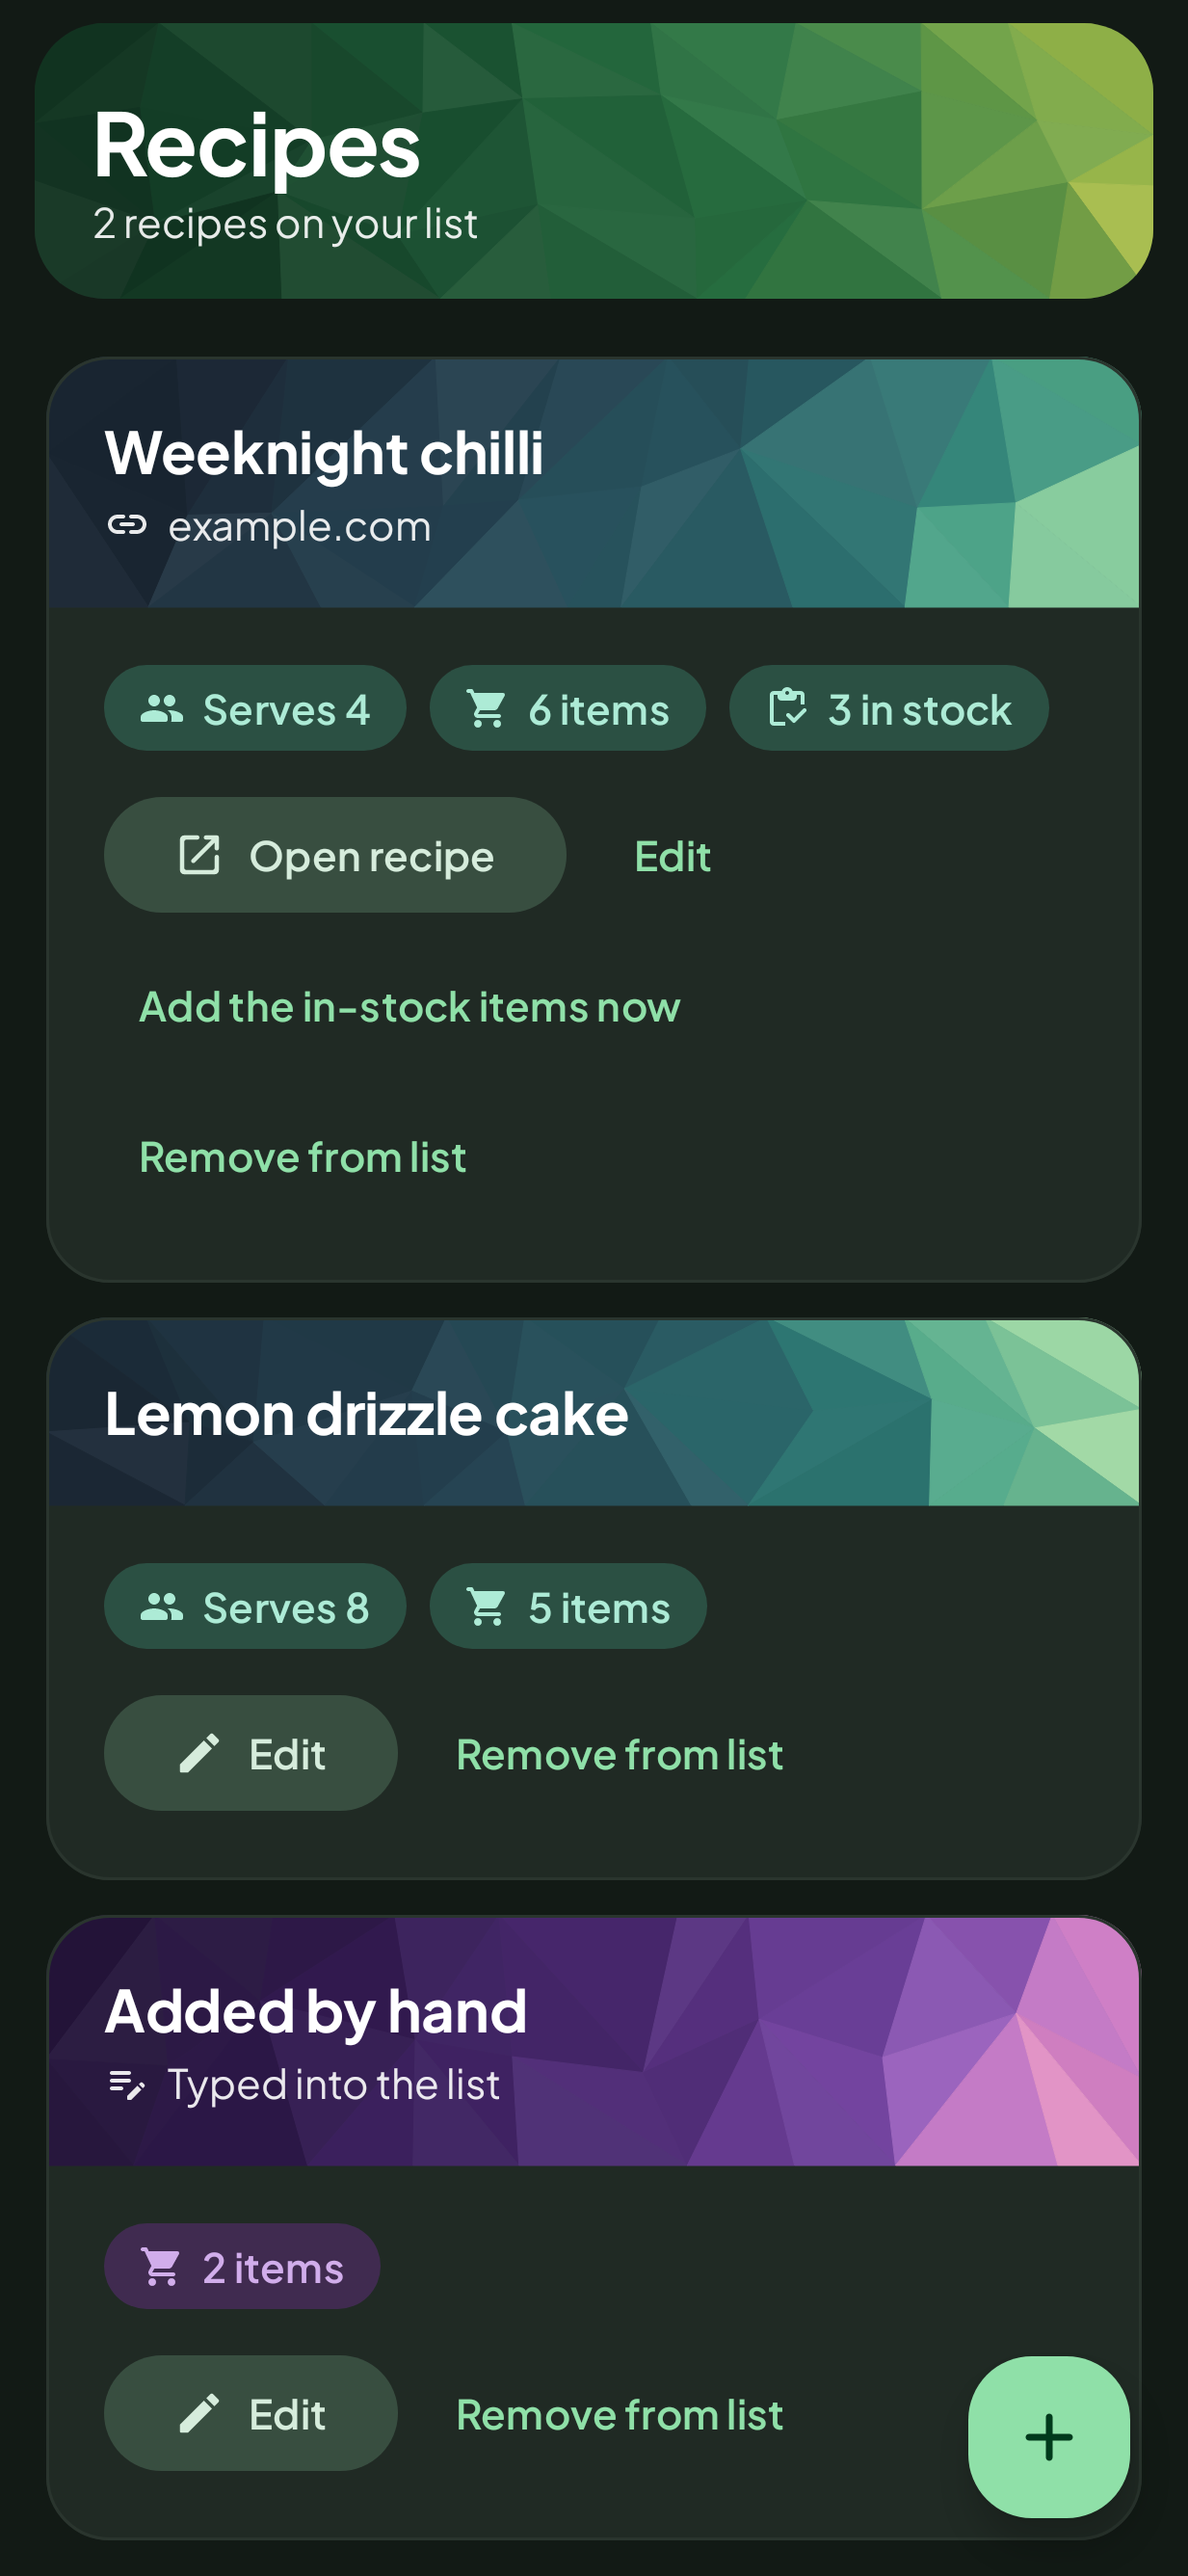
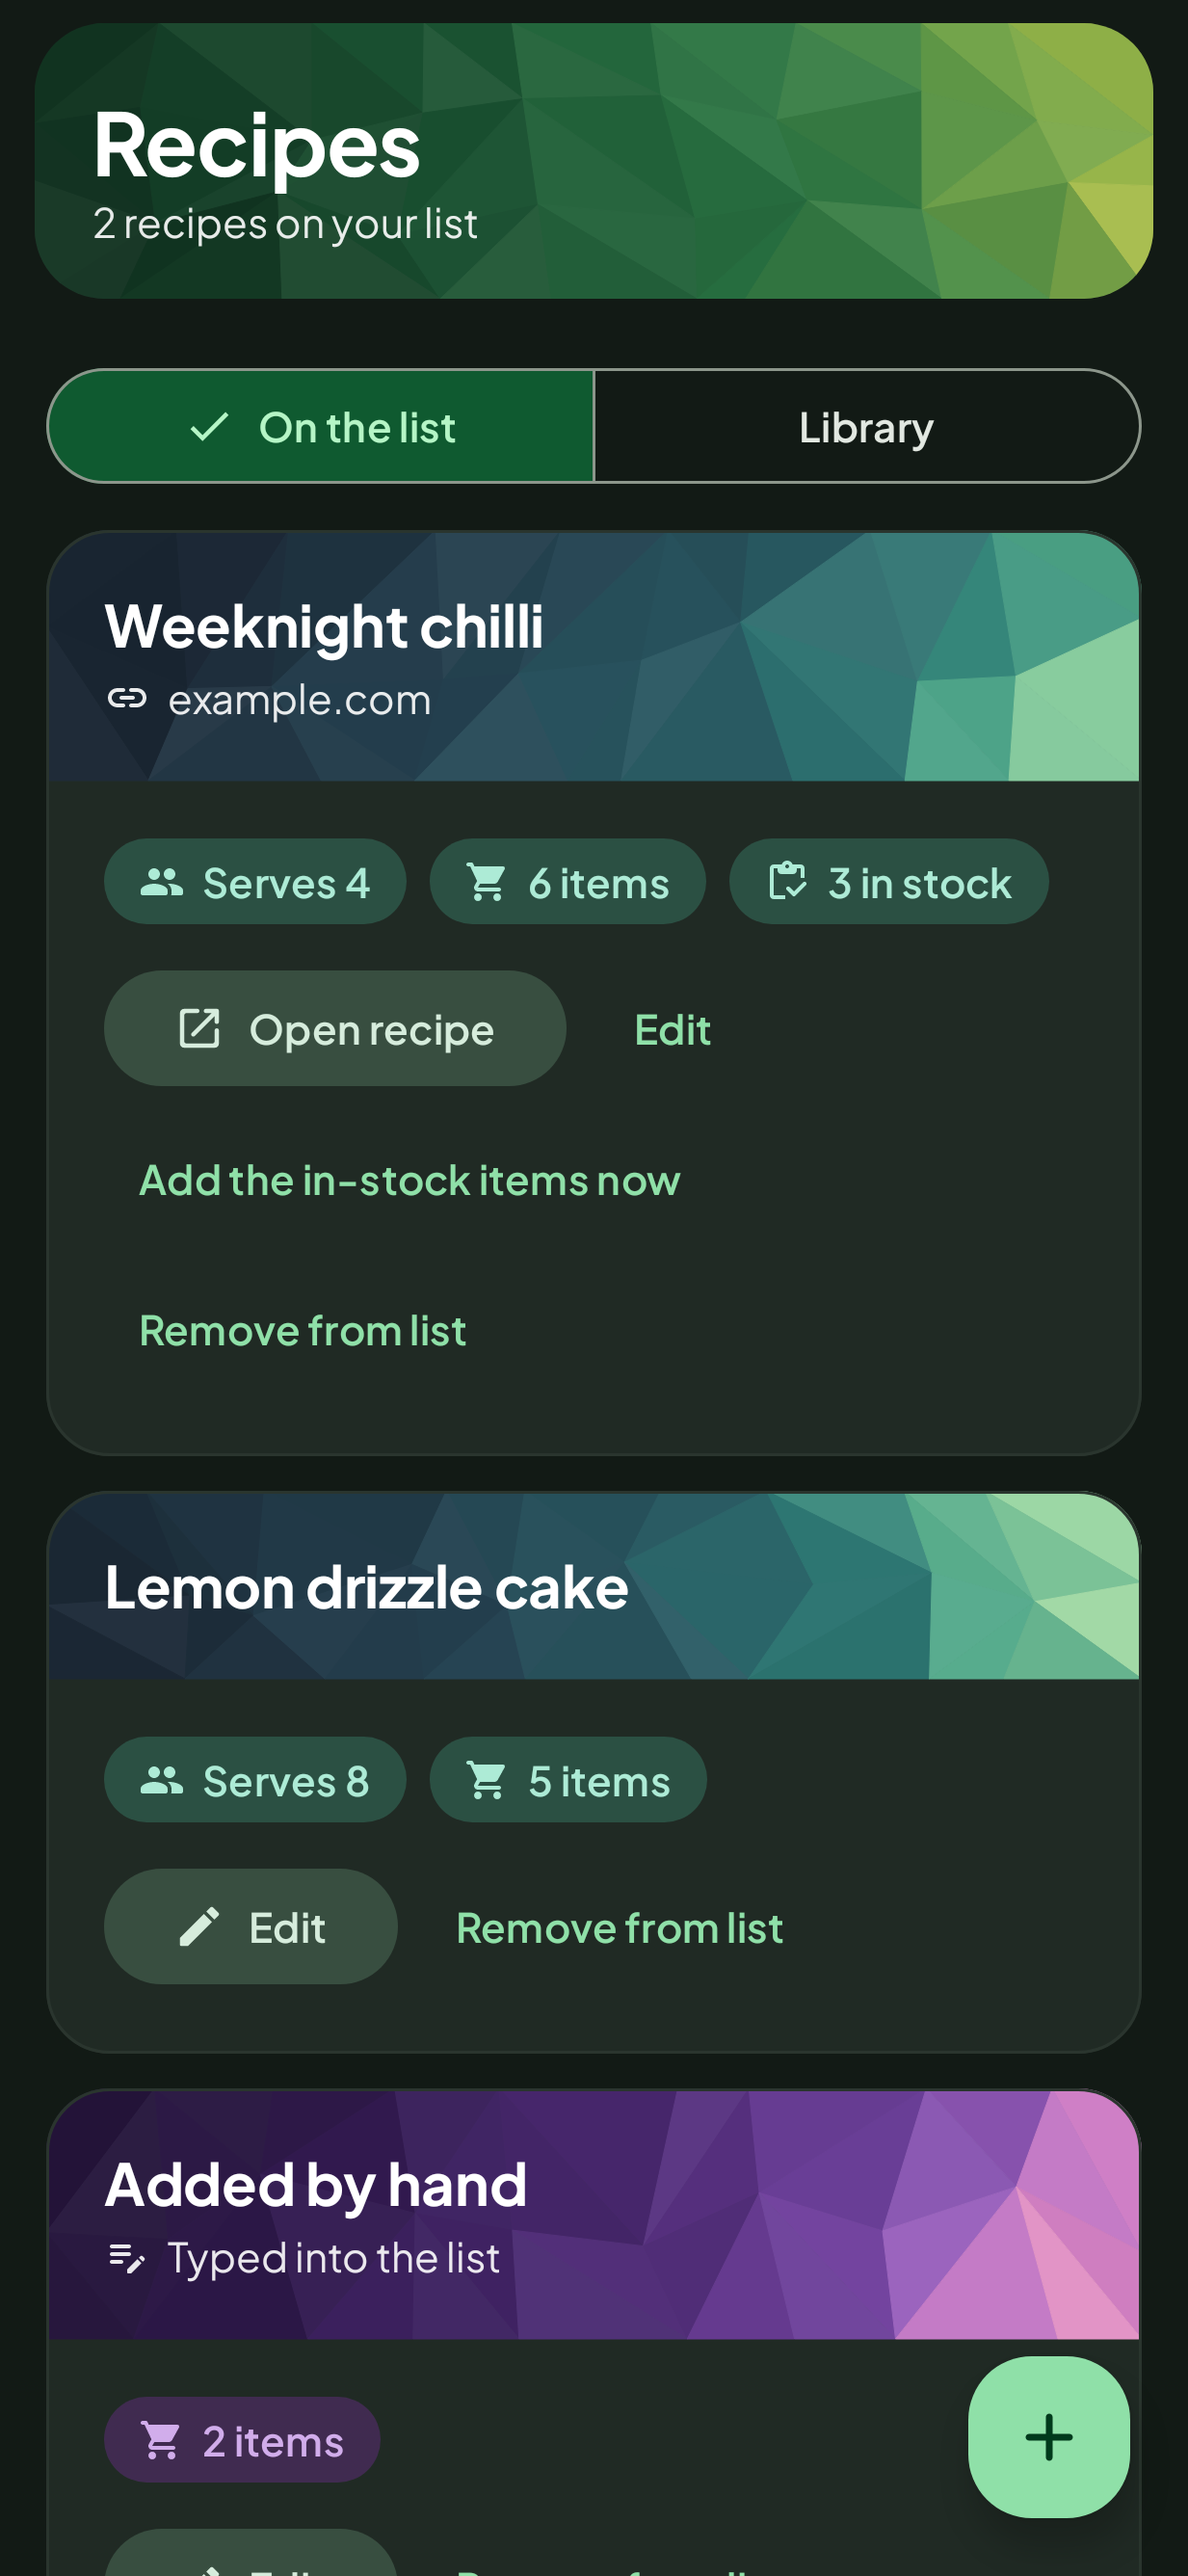
[feature] Recipes tab: On the list / Library toggle (#35)
The library no longer sits under the on-list cards. A toggle under the
header switches between them; it opens on the list when that has anything,
else the library, and a recipe added to the list switches back to it.

Claude-Session: https://claude.ai/code/session_016z2Qp5Lw5mkgJm6Jzuit5a

diff --git a/android/app/src/main/java/com/robert4lyf/hypershop/ui/recipes/RecipesRoute.kt b/android/app/src/main/java/com/robert4lyf/hypershop/ui/recipes/RecipesRoute.kt
@@ -47,6 +47,9 @@ import androidx.compose.material3.MaterialTheme
 import androidx.compose.material3.ModalBottomSheet
 import androidx.compose.material3.OutlinedButton
 import androidx.compose.material3.OutlinedTextField
+import androidx.compose.material3.SegmentedButton
+import androidx.compose.material3.SegmentedButtonDefaults
+import androidx.compose.material3.SingleChoiceSegmentedButtonRow
 import androidx.compose.material3.SnackbarHostState
 import androidx.compose.material3.Surface
 import androidx.compose.material3.Text
@@ -76,6 +79,7 @@ import com.robert4lyf.hypershop.ui.common.EmptyHero
 import com.robert4lyf.hypershop.ui.common.InfoBanner
 import com.robert4lyf.hypershop.ui.common.PillShape
 import com.robert4lyf.hypershop.ui.common.ScreenHeader
+import com.robert4lyf.hypershop.ui.common.basilSegmentedColors
 import com.robert4lyf.hypershop.ui.common.cardLift
 import com.robert4lyf.hypershop.ui.common.fieldLift
 import com.robert4lyf.hypershop.ui.common.pillFieldColors
@@ -168,6 +172,17 @@ fun RecipesScreen(
     var forget by rememberSaveable { mutableStateOf<String?>(null) }
     var addAgain by rememberSaveable { mutableStateOf<String?>(null) }
     var adding by rememberSaveable { mutableStateOf(false) }
+    // Null until a toggle is tapped: the list when it has anything, else the library.
+    var picked by rememberSaveable { mutableStateOf<Boolean?>(null) }
+    val showLibrary = ui.hasLibrary && (picked ?: ui.uses.isEmpty())
+    // A recipe landing on the list (from the library, a link or a photo) is shown there.
+    var seen by remember { mutableStateOf<Int?>(null) }
+    LaunchedEffect(ui.loaded, ui.uses.size) {
+        if (!ui.loaded) return@LaunchedEffect
+        val before = seen
+        if (before != null && ui.uses.size > before) picked = false
+        seen = ui.uses.size
+    }
     Surface(Modifier.fillMaxSize(), color = MaterialTheme.colorScheme.background) {
         Box(Modifier.fillMaxSize()) {
             LazyColumn(
@@ -196,7 +211,27 @@ fun RecipesScreen(
                         )
                     }
                 }
-                if (ui.loaded && ui.uses.isEmpty() && ui.hasLibrary) {
+                if (ui.hasLibrary) {
+                    item(key = "view") {
+                        SingleChoiceSegmentedButtonRow(Modifier.fillMaxWidth().padding(horizontal = 16.dp)) {
+                            SegmentedButton(
+                                selected = !showLibrary,
+                                onClick = { picked = false },
+                                shape = SegmentedButtonDefaults.itemShape(0, 2),
+                                colors = basilSegmentedColors(),
+                                modifier = Modifier.testTag("view-list"),
+                            ) { Text("On the list") }
+                            SegmentedButton(
+                                selected = showLibrary,
+                                onClick = { picked = true },
+                                shape = SegmentedButtonDefaults.itemShape(1, 2),
+                                colors = basilSegmentedColors(),
+                                modifier = Modifier.testTag("view-library"),
+                            ) { Text("Library") }
+                        }
+                    }
+                }
+                if (ui.loaded && ui.uses.isEmpty() && ui.hasLibrary && !showLibrary) {
                     item(key = "nothing-yet") {
                         InfoBanner(
                             "Nothing on the list",
@@ -205,26 +240,22 @@ fun RecipesScreen(
                         )
                     }
                 }
-                items(ui.uses, key = { it.useId }) { use ->
-                    UseCard(use, onRemove = { confirm = use.useId }, onAddInStock = { onAddInStock(use) }, onEdit = { onEdit(use) })
+                if (!showLibrary) {
+                    items(ui.uses, key = { it.useId }) { use ->
+                        UseCard(use, onRemove = { confirm = use.useId }, onAddInStock = { onAddInStock(use) }, onEdit = { onEdit(use) })
+                    }
                 }
-                if (ui.hasLibrary) {
-                    item(key = "library-title") {
-                        Column(
-                            Modifier.padding(start = 20.dp, end = 20.dp, top = 12.dp),
-                            verticalArrangement = Arrangement.spacedBy(8.dp),
-                        ) {
-                            Column {
-                                Text("Your recipes", style = MaterialTheme.typography.titleLarge)
-                                if (ui.terms.isNotEmpty() && ui.library.isEmpty()) {
-                                    Text(
-                                        "No matches",
-                                        style = MaterialTheme.typography.bodySmall,
-                                        color = MaterialTheme.colorScheme.onSurfaceVariant,
-                                    )
-                                }
-                            }
+                if (showLibrary) {
+                    item(key = "library-search") {
+                        Column(Modifier.padding(horizontal = 20.dp), verticalArrangement = Arrangement.spacedBy(8.dp)) {
                             RecipeSearchBox(search)
+                            if (ui.terms.isNotEmpty() && ui.library.isEmpty()) {
+                                Text(
+                                    "No matches",
+                                    style = MaterialTheme.typography.bodySmall,
+                                    color = MaterialTheme.colorScheme.onSurfaceVariant,
+                                )
+                            }
                         }
                     }
                     items(ui.library, key = { "lib-${it.key}" }) { row ->

diff --git a/android/app/src/test/java/com/robert4lyf/hypershop/ui/recipes/RecipesScreenTest.kt b/android/app/src/test/java/com/robert4lyf/hypershop/ui/recipes/RecipesScreenTest.kt
@@ -1,5 +1,8 @@
 package com.robert4lyf.hypershop.ui.recipes
 
+import androidx.compose.runtime.getValue
+import androidx.compose.runtime.mutableStateOf
+import androidx.compose.runtime.setValue
 import androidx.compose.ui.test.assertCountEquals
 import androidx.compose.ui.test.assertIsEnabled
 import androidx.compose.ui.test.assertIsNotEnabled
@@ -111,6 +114,7 @@ class RecipesScreenTest {
                 RecipesScreen(USES, onRemove = {}, onAddInStock = {}, library = LibraryActions(onAdd = { added += it.key }))
             }
         }
+        compose.onNodeWithTag("view-library").performClick()
         val list = compose.onNodeWithTag("recipes")
         // Not on the list: straight in.
         list.performScrollToNode(hasTestTag("lib-add-r:9"))
@@ -129,6 +133,9 @@ class RecipesScreenTest {
         compose.setContent {
             HyperShopTheme(dynamicColor = false) { RecipesScreen(USES.copy(uses = emptyList()), onRemove = {}, onAddInStock = {}) }
         }
+        // An empty list opens on the library; the list says it is empty.
+        compose.onNodeWithTag("lib-r:9").assertExists()
+        compose.onNodeWithTag("view-list").performClick()
         compose.onNodeWithTag("nothing-yet").assertExists()
         compose.onNodeWithText("Nothing on the list").assertExists()
     }
@@ -172,6 +179,7 @@ class RecipesScreenTest {
                 RecipesScreen(USES, onRemove = {}, onAddInStock = {}, library = LibraryActions(onOpen = { opened += it.key }))
             }
         }
+        compose.onNodeWithTag("view-library").performClick()
         compose.onNodeWithTag("recipes").performScrollToNode(hasTestTag("lib-r:9"))
         compose.onNodeWithTag("lib-r:9").performClick()
         assertEquals(listOf("r:9"), opened)
@@ -199,6 +207,24 @@ class RecipesScreenTest {
             HyperShopTheme { AddRecipeContent(AddRecipeActions(), onDone = {}) }
         }
         compose.onRoot().captureRoboImage(Shots.path("add-recipe-light.png"))
+    }
+
+    @Test
+    fun theListAndTheLibraryAreSeparateAndANewRecipeShowsOnTheList() {
+        var ui by mutableStateOf(USES.copy(uses = USES.uses.take(1)))
+        compose.setContent { HyperShopTheme(dynamicColor = false) { RecipesScreen(ui, onRemove = {}, onAddInStock = {}) } }
+        // Opens on the list: its cards, not the library's.
+        compose.onNodeWithText("Remove from list").assertExists()
+        compose.onNodeWithTag("lib-r:9").assertDoesNotExist()
+        compose.onNodeWithTag("view-library").performClick()
+        compose.onNodeWithTag("lib-r:9").assertExists()
+        compose.onNodeWithText("Remove from list").assertDoesNotExist()
+        compose.onRoot().captureRoboImage(Shots.path("recipes-library-light.png"))
+        // A recipe added to the list brings the list back.
+        ui = USES
+        compose.waitForIdle()
+        compose.onAllNodesWithText("Remove from list").assertCountEquals(3)
+        compose.onNodeWithTag("lib-r:9").assertDoesNotExist()
     }
 
     @Test
